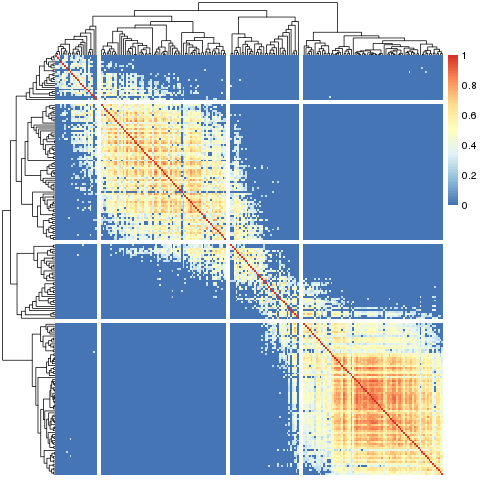
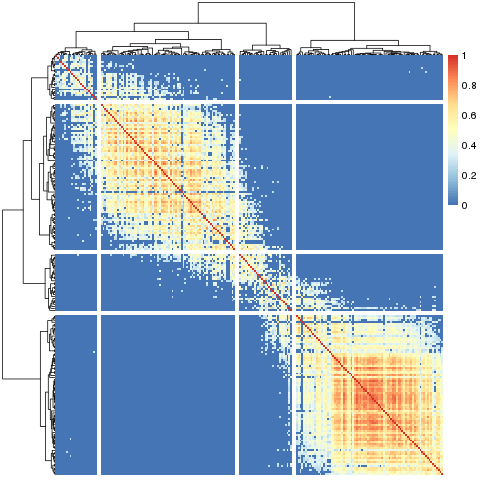
Use Ward's method in oclust.

Changed region(s): [[0.0, 0.0, 0.9375, 1.0]]

diff --git a/README.rst b/README.rst
@@ -46,8 +46,8 @@ Gives us:
 
 .. image:: large_clustered_pheatmap.png
 
-At a first glance, this seems to indicate there are two very sharply defined sub-groups, with a less
-sharply defined sub-group. A closer look (below) will reveal a different picture.
+At a first glance, this seems to indicate there are two very sharply distinguished sub-groups, with
+a third mixed group. A closer look (below) will reveal a different picture.
 
 Slanted Matrices
 ----------------
@@ -165,8 +165,9 @@ Which gives us:
 
 .. image:: large_cut_replaced_sheatmap.png
 
-Which is pretty good, even though it doesn't have the claim of "optimality" that the original
-unrestricted clustering offers.
+Which is pretty good, even though it doesn't have the claim of "full optimality" that the original
+unrestricted clustering offers; instead it only promises "constrained optimality" of the clustering
+(subject to the slanting order).
 
 Ordered Clustering
 ------------------
@@ -184,19 +185,17 @@ is chosen to be compatible with the clustering tree. Here we do the opposite - w
 entities for the slanted matrix visualization, and then find a compatible clustering tree to go with
 it.
 
-To find a good clustering tree, we first define the similarity between groups of entities (non-leaf
-nodes). Say we have two groups A = { a_1, ... a_n } and B = { b_1, ... b_m }, we can define the
-similarity between A and B to be some function of all the similarity measures between all the pairs
-(a_i, b_j). We are using the average of all the measures as this seems to give the best results.
+In principle it is possible to adapt any clustering method to include an ordering constraint. We
+chose to adapt `Ward's method <https://en.wikipedia.org/wiki/Ward%27s_method>`_. In this method, the
+algorithm starts with each element on its own, and merges the two elements such that the total
+variance within the merge node is minimized. It recursively merges groups of elements (minimizing
+the variance each time) until obtaining the full clustering tree.
 
-Given the ability to measure the similarity between groups of entities, we use a heuristic to find a
-good clustering tree. The ordering constraint severely restricts the possible clustering trees,
-making this efficient with complexity of only O(n^2 log n).
-
-Specifically, this heuristic works bottom-up. It starts with each entity as a separate group (leaf
-tree nodes). At each step, it looks for the most similar pair of adjacent groups, and groups them
-together (adds a parent node above these two nodes). This is repeated until we end up with a single
-group (the root of the tree).
+The general Ward's method can pick any two element groups to combine at each step. The ordered
+``oclust`` variant is restricted to only choosing adjacent element groups, trusting the slanting
+order to make similar elements adjacent to each other. This has the secondary effect that it is very
+fast, which allowing for a practical pure R implementation. The full Ward's method is slower, so the
+R implementation resorts to using FORTRAN code.
 
 TODO
 ====
